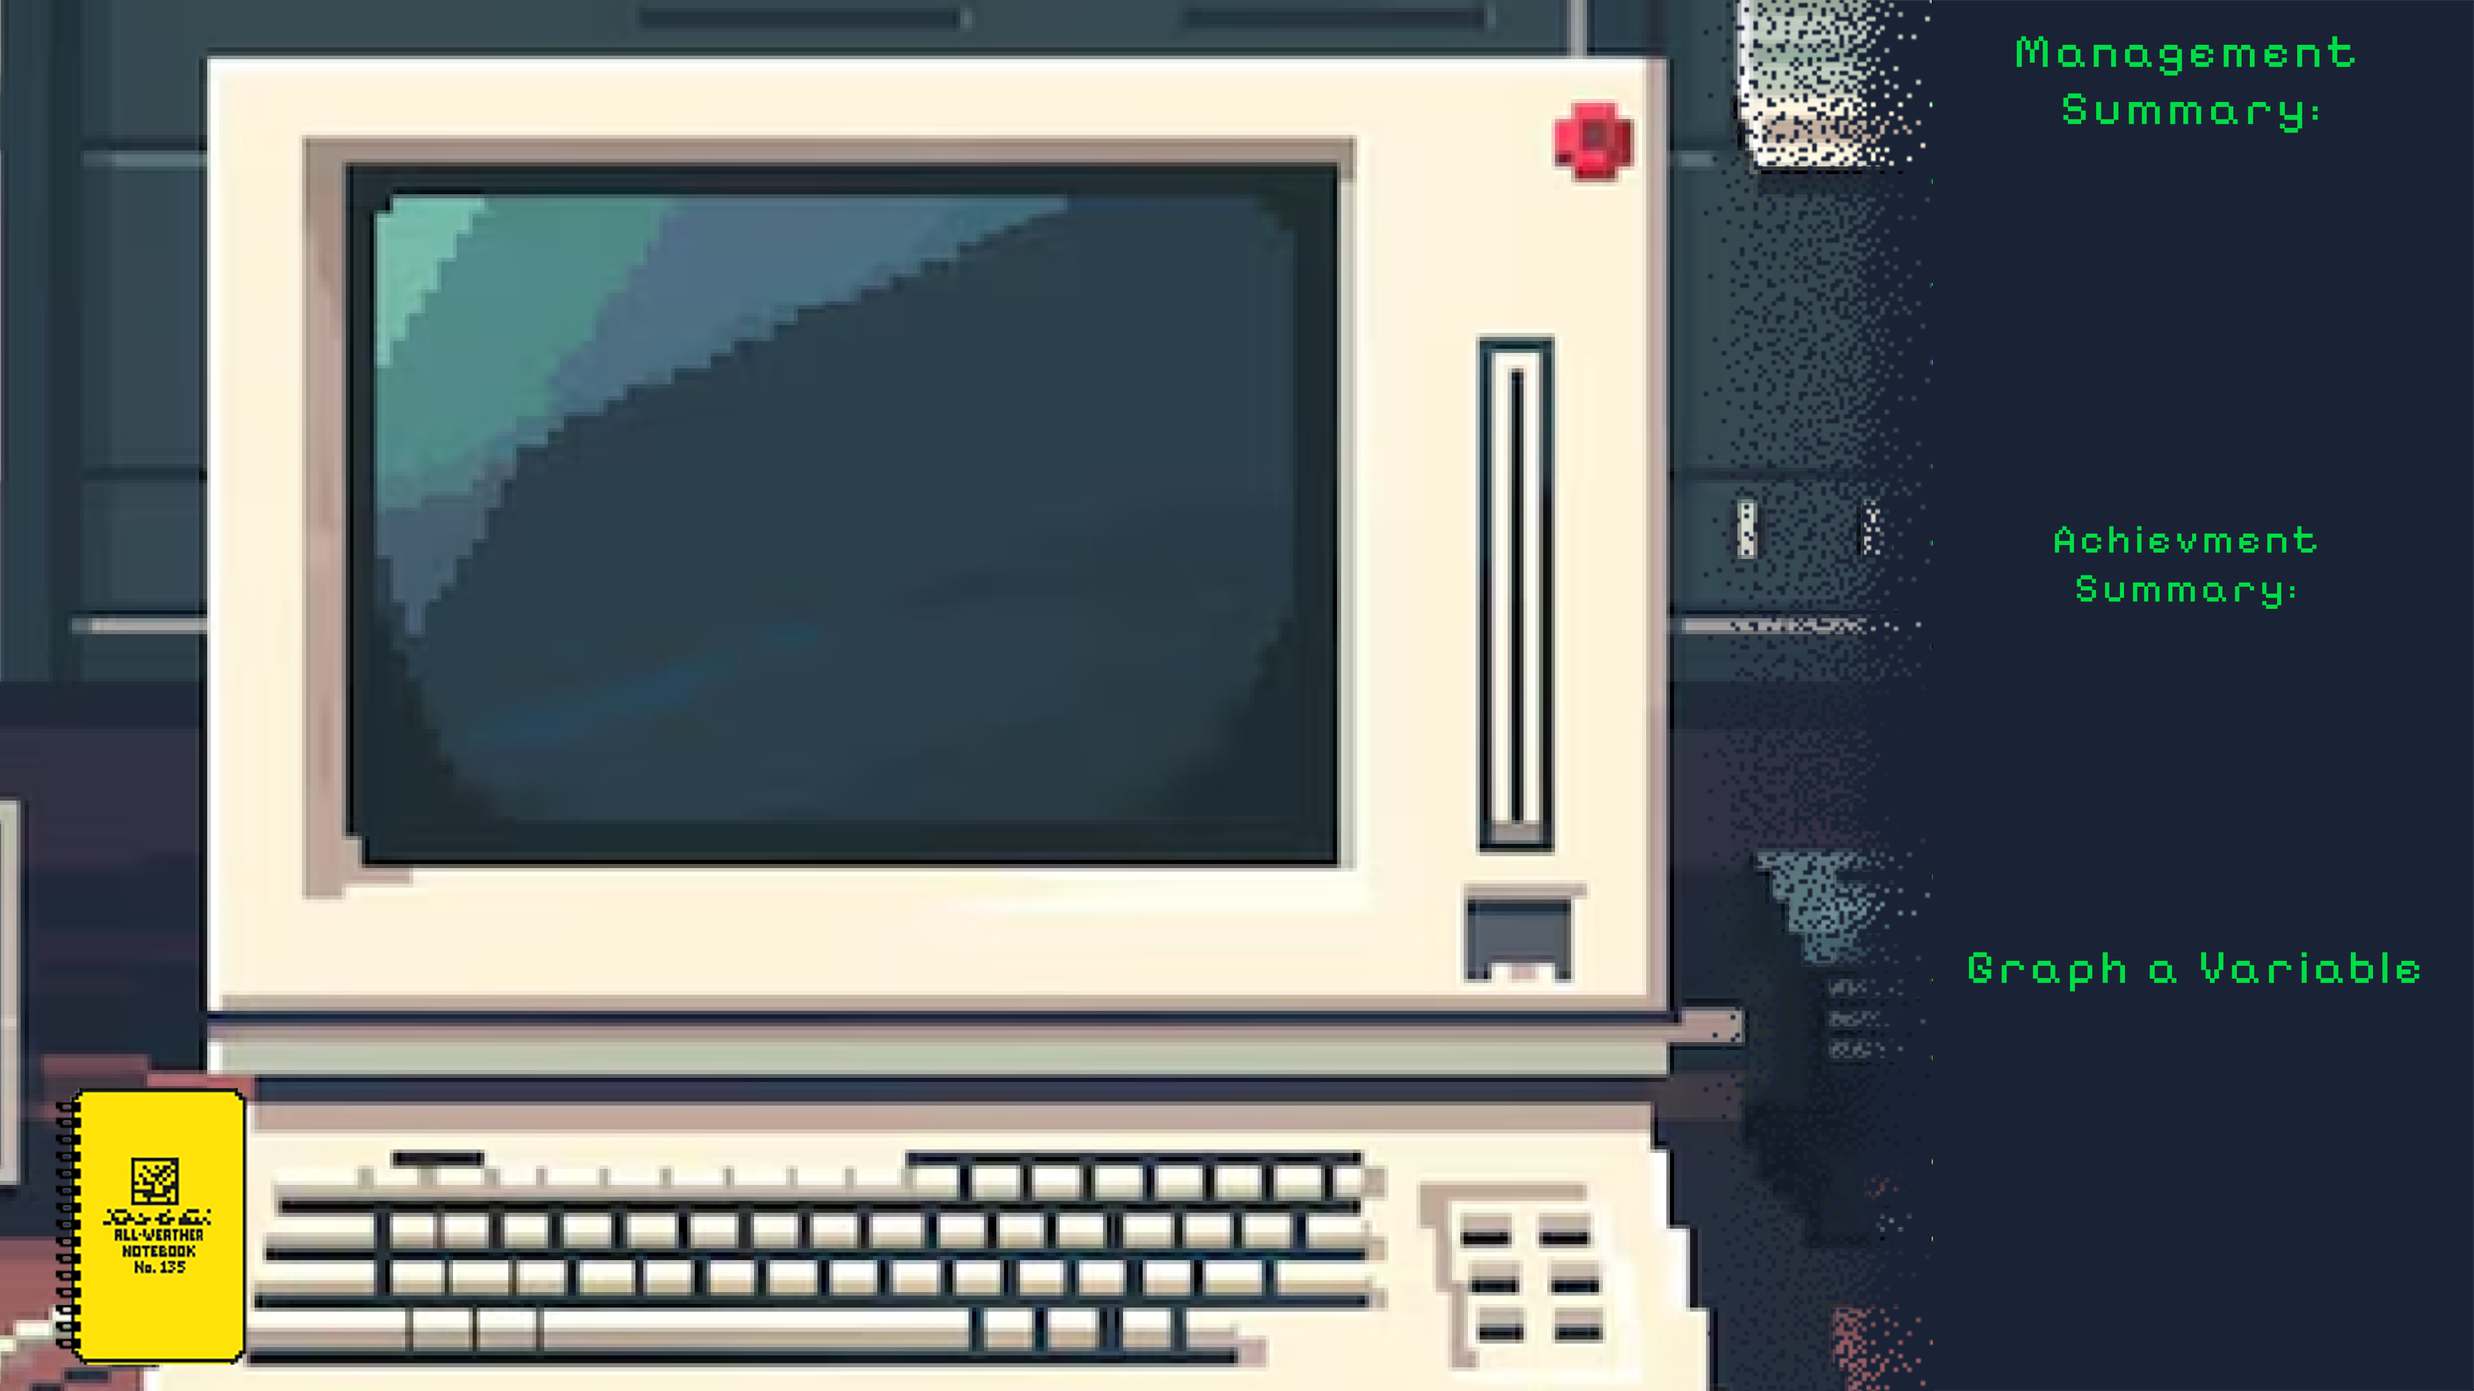
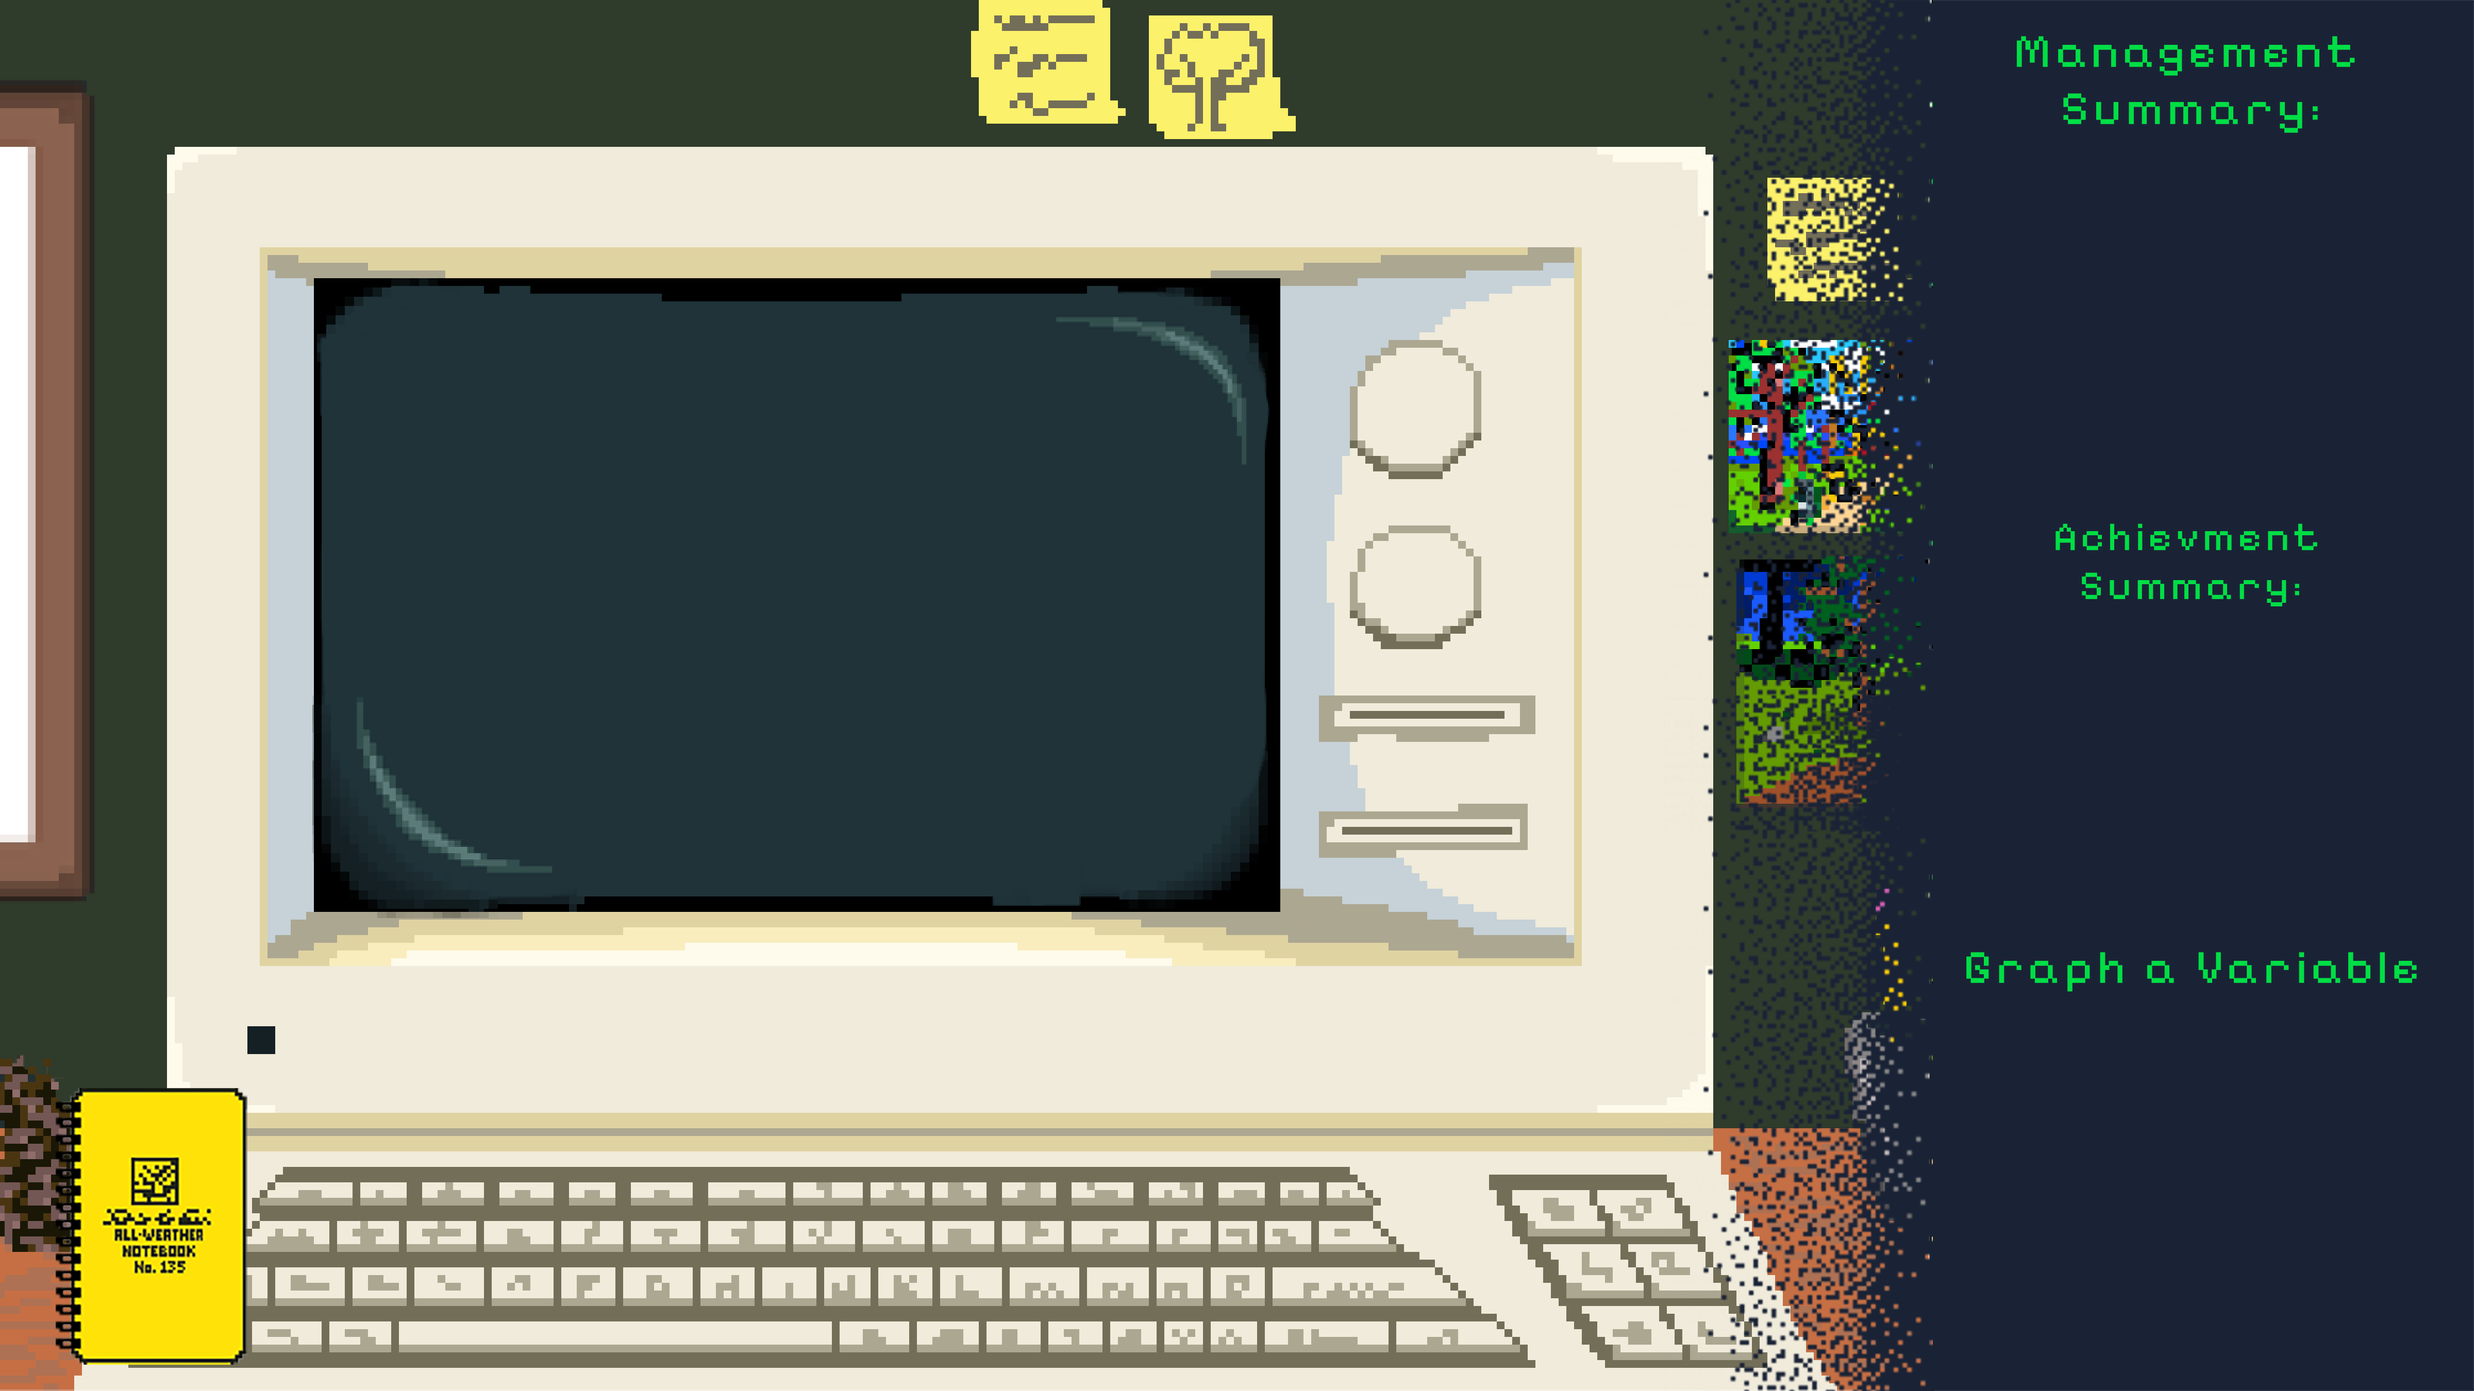
addition of correct analysis lab screen and floppy disk

diff --git a/src/gui.py b/src/gui.py
@@ -921,9 +921,11 @@ def main():
         except Exception:
             pass
 
-        # Background image
+        # Background image: show a short loading screen first, then swap
+        # to the full analysis background after 1000ms. The decadal data
+        # frame will be created only after the final background is shown.
         try:
-            img = Image.open("assets/analyze.png")
+            img = Image.open("assets/analyze_load.png")
             try:
                 img = img.resize((SCREEN_W, SCREEN_H), Image.Resampling.LANCZOS)
             except Exception:
@@ -933,56 +935,150 @@ def main():
             bg_label.image = photo
             bg_label.place(relx=0, rely=0, relwidth=1, relheight=1)
         except Exception:
-            pass
+            # If loading the loading-screen fails, fall back to blank frame
+            bg_label = tk.Label(analysis_frame, bg=BG_COLOR)
+            bg_label.place(relx=0, rely=0, relwidth=1, relheight=1)
 
-        # Start analysis lab ambient sound
-        try:
-            play_analysis_lab_sound()
-        except Exception:
-            pass
+        # Prepare df placeholder that will be filled once the full
+        # analysis background is displayed.
+        df = None
 
-        # Show action summary similarly to closing screen
-        # --- Decadal DataFrame display (top of analysis screen) ---
-        try:
-            df = game.get_decadal_dataframe(10)
+        def finish_analysis_setup():
+            nonlocal df
+            # Swap to the full analysis background image
             try:
-                df_text = df.to_string()
+                img2 = Image.open("assets/analyze.png")
+                try:
+                    img2 = img2.resize((SCREEN_W, SCREEN_H), Image.Resampling.LANCZOS)
+                except Exception:
+                    img2 = img2.resize((SCREEN_W, SCREEN_H), Image.LANCZOS)
+                photo2 = ImageTk.PhotoImage(img2)
+                try:
+                    bg_label.config(image=photo2)
+                    bg_label.image = photo2
+                except Exception:
+                    # If bg_label was a simple frame, recreate a label
+                    bg_label2 = tk.Label(analysis_frame, image=photo2)
+                    bg_label2.image = photo2
+                    bg_label2.place(relx=0, rely=0, relwidth=1, relheight=1)
             except Exception:
-                # fallback if DataFrame formatting fails
-                df_text = str(df)
-        except Exception as e:
-            df_text = f"Decadal data unavailable: {e}"
+                pass
 
-        df_frame = tk.Frame(analysis_frame, bg="#2c404b", bd=0)
-        df_frame.place(relx=0.15, rely=0.13, anchor="nw")
-        # Text widget sizes are in characters/lines, not pixels. Convert
-        # desired character/line counts using screen scaling so they remain
-        # usable on small displays.
-        # Prevent the text area from becoming too small on very small displays
-        w_scale = max(1, SCREEN_W / BASE_W)
-        h_scale = max(1, SCREEN_H / BASE_H)
-        df_width_chars = max(30, int(62 * w_scale))
-        df_height_lines = max(8, int(20 * h_scale))
-        df_text_widget = tk.Text(
-            df_frame,
-            width=df_width_chars,
-            height=df_height_lines,
-            wrap="none",
-            font=("Courier New", max(8, scale_font(15))),
-            bg="#2c404b",
-            fg="#05dd4c",
-            insertbackground="#05dd4c",
-            selectbackground="#30515a",
-            bd=0,
-            relief="flat"
-        )
-        df_text_widget.grid(row=0, column=0, sticky="nsew")
-        df_frame.grid_rowconfigure(0, weight=1)
-        df_frame.grid_columnconfigure(0, weight=1)
-        df_text_widget.insert("1.0", df_text)
-        # Ensure text stays the desired color when widget is disabled on all Tk builds
-        df_text_widget.tag_add("df_color", "1.0", "end")
-        df_text_widget.tag_config("df_color", foreground="#05dd4c")
+            # Start analysis lab ambient sound after the transition
+            try:
+                play_analysis_lab_sound()
+            except Exception:
+                pass
+
+            # Create and populate the decadal DataFrame display now
+            try:
+                df = game.get_decadal_dataframe(10)
+                try:
+                    df_text = df.to_string()
+                except Exception:
+                    df_text = str(df)
+            except Exception as e:
+                df_text = f"Decadal data unavailable: {e}"
+
+            df_frame = tk.Frame(analysis_frame, bg="#1f3339", bd=0)
+            df_frame.place(relx=0.135, rely=0.21, anchor="nw")
+            w_scale = max(1, SCREEN_W / BASE_W)
+            h_scale = max(1, SCREEN_H / BASE_H)
+            df_width_chars = max(30, int(60 * w_scale))
+            df_height_lines = max(8, int(16 * h_scale))
+            df_text_widget = tk.Text(
+                df_frame,
+                width=df_width_chars,
+                height=df_height_lines,
+                wrap="none",
+                font=("Courier New", max(8, scale_font(15))),
+                bg="#1f3339",
+                fg="#05dd4c",
+                insertbackground="#05dd4c",
+                selectbackground="#30515a",
+                bd=0,
+                relief="flat"
+            )
+            df_text_widget.grid(row=0, column=0, sticky="nsew")
+            df_frame.grid_rowconfigure(0, weight=1)
+            df_frame.grid_columnconfigure(0, weight=1)
+            df_text_widget.insert("1.0", df_text)
+            df_text_widget.tag_add("df_color", "1.0", "end")
+            df_text_widget.tag_config("df_color", foreground="#05dd4c")
+
+            # Create Save Data button on top of the DataFrame so it appears after loading
+            try:
+                save_frame = tk.Frame(analysis_frame, bg="#2c404b", bd=0)
+                save_frame.place(relx=0.575, rely=0.557, anchor="center")
+                save_btn = tk.Button(
+                    save_frame,
+                    text="Save Data",
+                    font=("Courier", scale_font(12), "bold"),
+                    width=10,
+                    bg="#bb0b09",
+                    fg="#320001",
+                    activebackground="#f0ebda",
+                    command=do_save_dataframe
+                )
+                save_btn.pack()
+                try:
+                    save_frame.lift()
+                except Exception:
+                    pass
+            except Exception:
+                pass
+
+            # Load blink image and start continuous background cycling
+            try:
+                img_blink = Image.open("assets/analyze_blink.png")
+                try:
+                    img_blink = img_blink.resize((SCREEN_W, SCREEN_H), Image.Resampling.LANCZOS)
+                except Exception:
+                    img_blink = img_blink.resize((SCREEN_W, SCREEN_H), Image.LANCZOS)
+                photo_blink = ImageTk.PhotoImage(img_blink)
+            except Exception:
+                photo_blink = None
+
+            # Continuous cycle: analyze.png for 1000ms, analyze_blink.png for 500ms
+            try:
+                state = {"show_blink": False, "after_id": None}
+
+                def cycle_step():
+                    # stop if frame or label gone
+                    if not analysis_frame.winfo_exists() or not bg_label.winfo_exists():
+                        return
+                    try:
+                        if not state["show_blink"]:
+                            # show steady image
+                            bg_label.config(image=photo2)
+                            bg_label.image = photo2
+                            delay = 1000
+                        else:
+                            # show blink image (if available)
+                            if photo_blink is not None:
+                                bg_label.config(image=photo_blink)
+                                bg_label.image = photo_blink
+                            delay = 500
+                        state["show_blink"] = not state["show_blink"]
+                        # schedule next
+                        try:
+                            state["after_id"] = root.after(delay, cycle_step)
+                            analysis_frame.analysis_cycle_after = state["after_id"]
+                        except Exception:
+                            state["after_id"] = None
+                    except Exception:
+                        pass
+
+                # start cycling
+                cycle_step()
+            except Exception:
+                pass
+
+        # Schedule the transition from loading -> analysis (1000ms)
+        try:
+            root.after(1000, finish_analysis_setup)
+        except Exception:
+            finish_analysis_setup()
 
         # --- action summary ---
         text_frame = tk.Frame(analysis_frame, bg="#1b2336", bd=0)
@@ -1044,7 +1140,7 @@ def main():
 
         # Return button (restore previous ambient sounds on return)
         button_frame = tk.Frame(analysis_frame, bg="#fff3dd", bd=0)
-        button_frame.place(relx=0.48, rely=0.68, anchor="center")
+        button_frame.place(relx=0.2, rely=0.75, anchor="center")
 
         def return_to_prev():
             try:
@@ -1070,25 +1166,64 @@ def main():
             except Exception:
                 pass
 
+            # Cancel background cycling if active
+            try:
+                aid = getattr(analysis_frame, 'analysis_cycle_after', None)
+                if aid:
+                    try:
+                        root.after_cancel(aid)
+                    except Exception:
+                        pass
+                    analysis_frame.analysis_cycle_after = None
+            except Exception:
+                pass
+
             analysis_frame.pack_forget()
             prev_frame.pack(fill="both", expand=True)
 
         tk.Button(
             button_frame, text="Return to Game", font=("Courier", scale_font(13), "bold"), width=16,
-            bg="#fff3dd", fg="#37384e", activebackground="#9b917f",
+            bg="#f0ebda", fg="#736e58", activebackground="#9b917f",
             command=return_to_prev
         ).pack()
 
-        # --- Save Data button (own frame) ---
-        save_frame = tk.Frame(analysis_frame, bg="#2c404b", bd=0)
-        save_frame.place(relx=0.35, rely=0.57, anchor="center")
+        # --- Save Data button will be created after loading completes ---
 
         def do_save_dataframe():
             try:
                 play_save_sound()
             except Exception:
                 pass
+
+            # Show a floppy overlay while saving (scales with screen)
+            overlay = None
             try:
+                overlay = tk.Frame(analysis_frame, bg="#c6d1d8", bd=0)
+                overlay.place(relx=0.575, rely=0.57, anchor="center")
+                try:
+                    floppy_img = Image.open("assets/floppy.png")
+                    try:
+                        fw = max(24, scale_x(135))
+                        fh = max(16, scale_y(108))
+                        floppy_img = floppy_img.resize((fw, fh), Image.Resampling.LANCZOS)
+                    except Exception:
+                        floppy_img = floppy_img.resize((scale_x(135), scale_y(108)), Image.LANCZOS)
+                    floppy_photo = ImageTk.PhotoImage(floppy_img)
+                    floppy_label = tk.Label(overlay, image=floppy_photo, bg="#c6d1d8")
+                    floppy_label.image = floppy_photo
+                    floppy_label.pack()
+                except Exception:
+                    # fallback: simple text label if floppy image can't be shown
+                    tk.Label(overlay, text="Saving...", bg="#c6d1d8", fg="#000000").pack(padx=10, pady=10)
+                try:
+                    overlay.lift()
+                except Exception:
+                    pass
+                try:
+                    root.update_idletasks()
+                except Exception:
+                    pass
+
                 from datetime import datetime
                 default_name = datetime.now().strftime("PitchPineTrail_data_%Y%m%d_%H%M%S.csv")
                 file_path = filedialog.asksaveasfilename(
@@ -1165,18 +1300,12 @@ def main():
                         print("Save error:", e)
             except Exception as e:
                 print("Unexpected error during save:", e)
-
-        save_btn = tk.Button(
-            save_frame,
-            text="Save Data",
-            font=("Courier", scale_font(13), "bold"),
-            width=12,
-            bg="#2c404b",  # navy
-            fg="#05dd4c",  # lime green
-            activebackground="#152a35",
-            command=do_save_dataframe
-        )
-        save_btn.pack()
+            finally:
+                try:
+                    if overlay and overlay.winfo_exists():
+                        overlay.destroy()
+                except Exception:
+                    pass
 
         # --- Variable buttons (stacked) to plot each metric vs Year ---
         try:
@@ -3264,7 +3393,7 @@ def main():
             show_game_screen()
 
     # Start the main event loop
-    #show_hurricane_screen()  # <-- TEMP: Jump directly to screen for testing
+    #show_analysis_lab()  # <-- TEMP: Jump directly to screen for testing
     root.mainloop()
 
 #DEFINING SOUND FUNCTIONS
